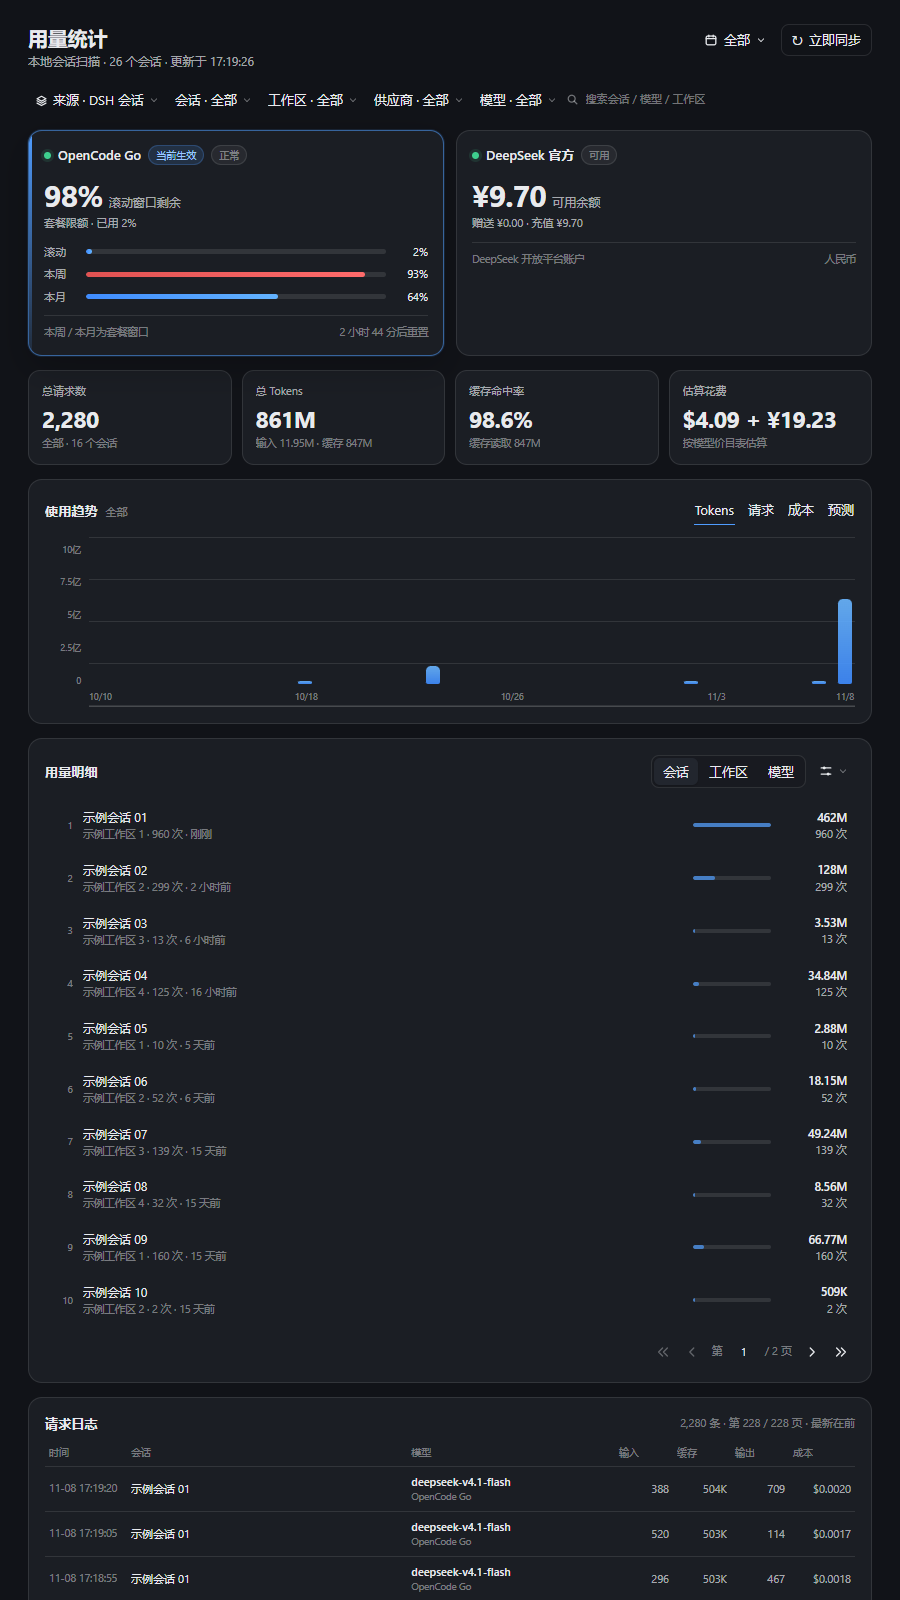
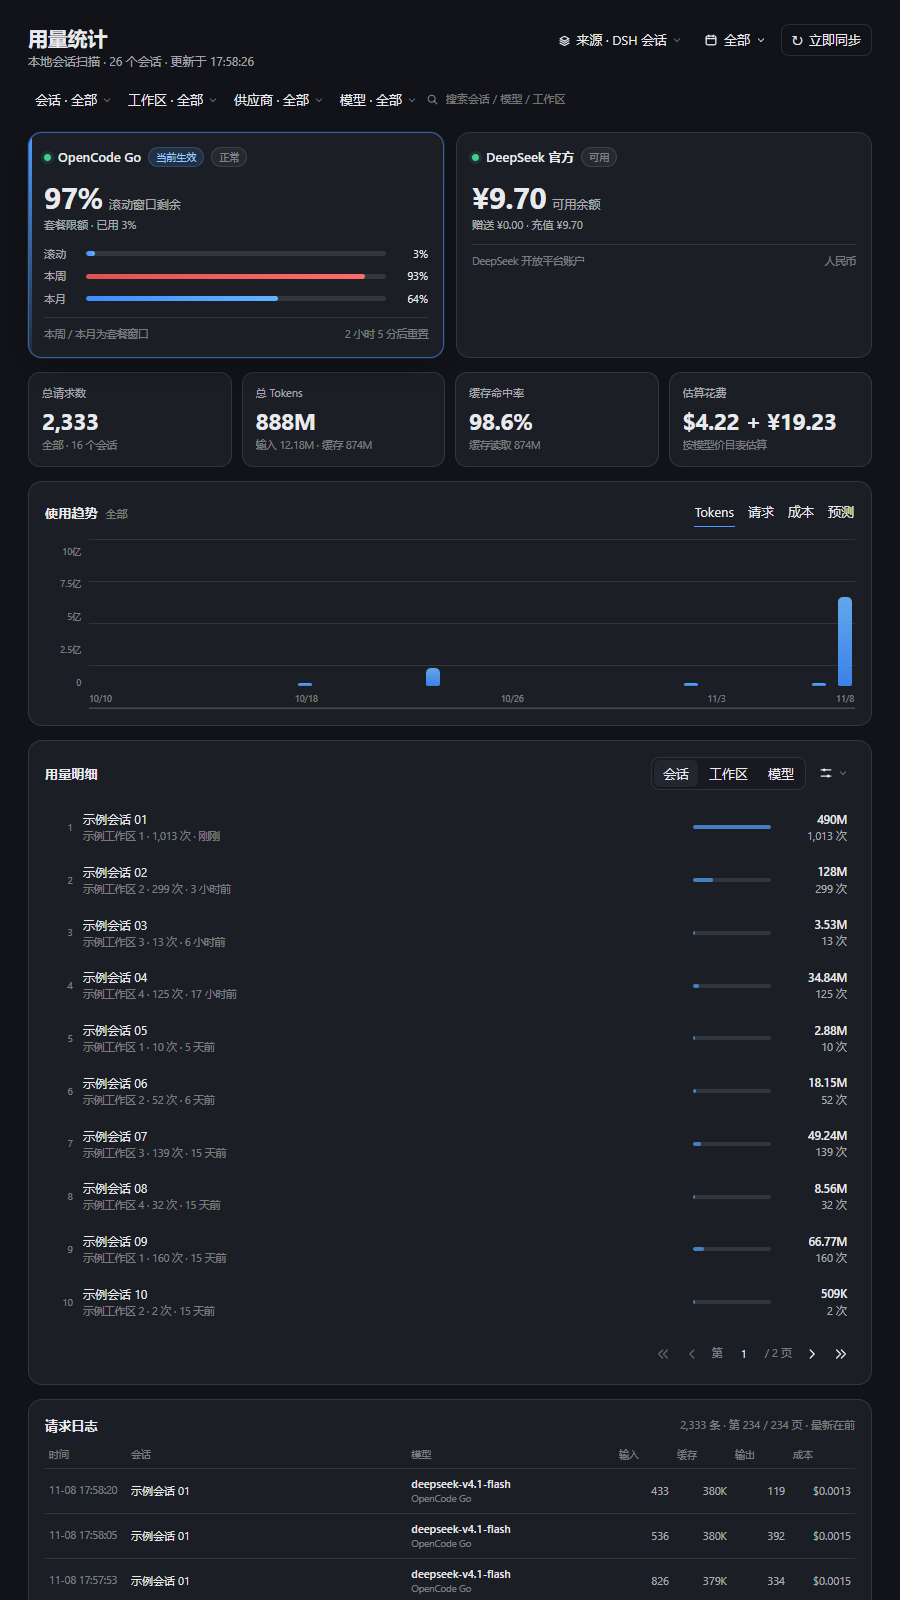
feat: move source picker to header and scroll filters

diff --git a/lib/client.js b/lib/client.js
@@ -142,7 +142,9 @@ window.__ModuleLoader__.load({
 .u-sync-icon{font-size:14px;line-height:1;display:inline-block}
 .u-sync.is-busy .u-sync-icon{animation:u-spin .9s linear infinite}
 @keyframes u-spin{to{transform:rotate(360deg)}}
-.u-filters{display:flex;align-items:center;flex-wrap:nowrap;gap:2px;border:0;background:transparent;padding:0;min-width:0}
+.u-filters{display:flex;align-items:center;flex-wrap:nowrap;gap:2px;border:0;background:transparent;padding:0 0 2px;min-width:0;overflow-x:auto;overflow-y:hidden;overscroll-behavior-x:contain;scrollbar-width:none;-ms-overflow-style:none}.u-filters::-webkit-scrollbar{display:none}.u-filters.is-menu-open{overflow:visible}
+.u-filters > .u-menu-wrap{flex:0 0 auto}
+.u-filters > .u-search{flex:1 0 180px;min-width:180px}
 .u-menu-wrap{position:relative;min-width:0;flex:0 1 auto}
 .u-trigger{display:inline-flex;align-items:center;gap:5px;height:32px;max-width:132px;padding:0 7px;border:0;border-radius:8px;background:transparent;color:var(--u-sub);font-size:11px;cursor:pointer;white-space:nowrap;min-width:0}
 .u-trigger:hover,.u-trigger.is-open{color:var(--u-text);background:var(--dsw-alias-interactive-bg-hover,rgba(255,255,255,.06))}
@@ -495,16 +497,20 @@ window.__ModuleLoader__.load({
       return h(Svg, { size }, h('path', { d: 'm3 8.5 3 3 7-7' }))
     }
 
-    function Menu({ label, value, options, onChange, icon = null, align = 'left', minWidth = 170, className = '', ariaLabel = '' }) {
+    function Menu({ label, value, options, onChange, icon = null, align = 'left', minWidth = 170, className = '', ariaLabel = '', onOpenChange }) {
       const [open, setOpen] = useState(false)
       const rootRef = useRef(null)
+      const changeOpen = (next) => {
+        setOpen(next)
+        onOpenChange?.(next)
+      }
       useEffect(() => {
         if (!open) return undefined
         const onPointer = (event) => {
-          if (rootRef.current !== null && !rootRef.current.contains(event.target)) setOpen(false)
+          if (rootRef.current !== null && !rootRef.current.contains(event.target)) changeOpen(false)
         }
         const onKey = (event) => {
-          if (event.key === 'Escape') setOpen(false)
+          if (event.key === 'Escape') changeOpen(false)
         }
         document.addEventListener('pointerdown', onPointer)
         document.addEventListener('keydown', onKey)
@@ -518,7 +524,7 @@ window.__ModuleLoader__.load({
         h('button', {
           type: 'button',
           className: 'u-trigger' + (open ? ' is-open' : ''),
-          onClick: () => setOpen((previous) => !previous),
+          onClick: () => changeOpen(!open),
           'aria-haspopup': 'listbox',
           'aria-expanded': open,
           'aria-label': ariaLabel || label || '选择',
@@ -543,7 +549,7 @@ window.__ModuleLoader__.load({
             title: option.title || option.label,
             onClick: () => {
               onChange(option.value)
-              setOpen(false)
+              changeOpen(false)
             },
           },
             h('span', { className: 'u-menu-item-label' }, option.label),
@@ -1163,7 +1169,7 @@ window.__ModuleLoader__.load({
       )
     }
 
-    function SourcePicker({ sources = [], selected = ['dsh-session'], onChange }) {
+    function SourcePicker({ sources = [], selected = ['dsh-session'], onChange, align = 'left' }) {
       const [open, setOpen] = useState(false)
       const rootRef = useRef(null)
       useEffect(() => {
@@ -1212,7 +1218,7 @@ window.__ModuleLoader__.load({
           h('span', { className: 'u-trigger-chevron' }, h(IconChevronDown, { size: 10 })),
         ),
         open
-          ? h('div', { className: 'u-menu-pop u-source-pop', role: 'dialog', 'aria-label': '选择统计来源' },
+          ? h('div', { className: 'u-menu-pop u-source-pop' + (align === 'right' ? ' is-right' : ''), role: 'dialog', 'aria-label': '选择统计来源' },
             h('div', { className: 'u-source-head' },
               h('b', null, '统计来源'),
               h('span', null, '只汇总勾选的来源'),
@@ -1258,8 +1264,25 @@ window.__ModuleLoader__.load({
       )
     }
 
-    function FilterBar({ data, filters = {}, onChange, onClear, search = '', onSearch, sources = ['dsh-session'], onSources }) {
+    function FilterBar({ data, filters = {}, onChange, onClear, search = '', onSearch }) {
       const facets = data?.facets ?? {}
+      const scrollRef = useRef(null)
+      const [openMenus, setOpenMenus] = useState(0)
+      const onMenuOpenChange = (open) => {
+        setOpenMenus((count) => Math.max(0, count + (open ? 1 : -1)))
+      }
+      useEffect(() => {
+        const node = scrollRef.current
+        if (node === null) return undefined
+        const onWheel = (event) => {
+          if (Math.abs(event.deltaY) <= Math.abs(event.deltaX)) return
+          const before = node.scrollLeft
+          node.scrollLeft += event.deltaY
+          if (node.scrollLeft !== before) event.preventDefault()
+        }
+        node.addEventListener('wheel', onWheel, { passive: false })
+        return () => node.removeEventListener('wheel', onWheel)
+      }, [])
       const sessions = Array.isArray(facets.sessions) ? facets.sessions : []
       const workspaces = Array.isArray(facets.workspaces) ? facets.workspaces : []
       const models = Array.isArray(facets.models) ? facets.models : []
@@ -1274,15 +1297,11 @@ window.__ModuleLoader__.load({
         label: `${dimension} · ${current}`,
         value: filters[key] || '',
         onChange: (value) => onChange({ ...filters, [key]: value }),
+        onOpenChange: onMenuOpenChange,
         options: [{ value: '', label: `全部${dimension}`, title: `全部${dimension}` }, ...options],
         minWidth: 210,
       })
-      return h('div', { className: 'u-filters' },
-        h(SourcePicker, {
-          sources: Array.isArray(data?.sources) ? data.sources : [],
-          selected: sources,
-          onChange: onSources,
-        }),
+      return h('div', { className: 'u-filters' + (openMenus > 0 ? ' is-menu-open' : ''), ref: scrollRef },
         trigger('session', '会话', filters.session ? (sessionRow?.title || '已选会话') : '全部', sessions.map((row) => ({
           value: row.id,
           label: row.title || row.id,
@@ -1777,6 +1796,12 @@ window.__ModuleLoader__.load({
                 : '读取本地会话日志与当前配置余额'),
           ),
           h('div', { className: 'u-head-actions' },
+            h(SourcePicker, {
+              sources: Array.isArray(data?.sources) ? data.sources : [],
+              selected: sources,
+              onChange: onSources,
+              align: 'right',
+            }),
             h(RangeMenu, { range, onChange: onRange, defaultOpen: defaultRangeOpen }),
             h('button', {
               className: 'u-sync' + (phase === 'refreshing' ? ' is-busy' : ''),
@@ -1800,8 +1825,6 @@ window.__ModuleLoader__.load({
                 onClear: clearFilters,
                 search,
                 onSearch,
-                sources,
-                onSources,
               }),
               h(Balances, { balance: data.balance }),
               h('div', { className: 'u-stats' },

diff --git a/README.md b/README.md
@@ -30,7 +30,8 @@
 - **花费估算**：OpenCode Go 按内置美元价目表；DeepSeek 官方按内置人民币峰谷价目表。不是“订阅制不计费”。
 - **明细排行**：会话 / 工作区 / 模型，默认活跃优先，可切用量优先；每页 10 条。
 - **精细筛选**：会话、工作区、供应商、模型文字下拉；会话 / 模型 / 工作区搜索。
-- **自定义来源**：顶部「来源」可勾选 DSH 会话与外部插件推送；默认只勾选 DSH 会话，其它来源显式开启后才计入。
+- **自定义来源**：右上角、日期范围左侧的「来源」可勾选 DSH 会话与外部插件推送；默认只勾选 DSH 会话，其它来源显式开启后才计入。
+- **横向滚动**：筛选条超出宽度时，滚轮可横向滚动，不再挤压或换行。
 - **请求日志**：每页 10 条，默认最新页，底部页码输入跳转。
 - **时间范围**：当天 / 近 24 小时 / 近 7 天 / 近 14 天 / 近 30 天 / 全部 / 自定义月历。
 
